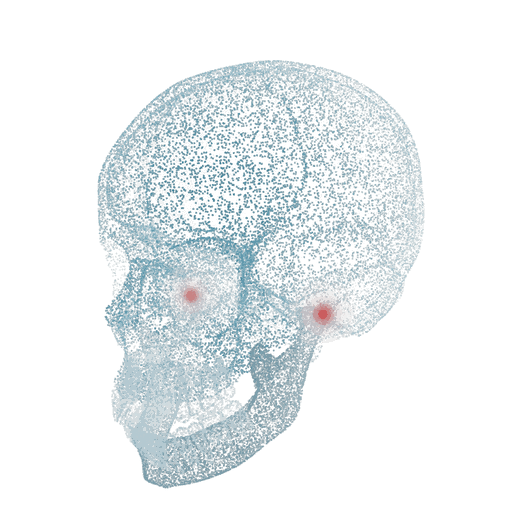
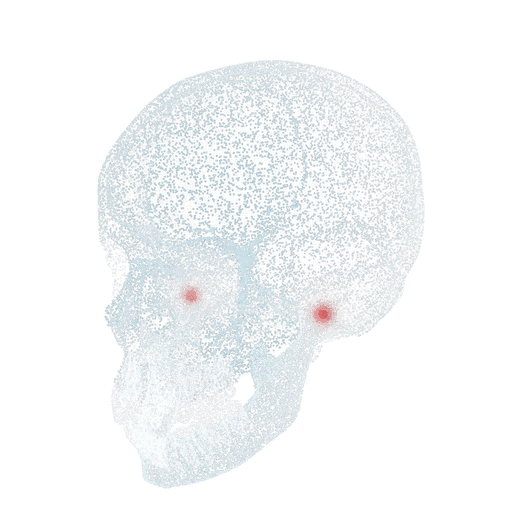
배색 변경: 네이비(머리 띠 짙은 남색, 포인트 청남색)
- 메인 대문과 각 쪽 제목 띠를 짙은 남색 바탕에 흰 글자로
- 3D 두개골 점을 밝은 색으로, 정지 그림 갱신

Changed region(s): [[0.1846, 0.0923, 0.8, 0.9538]]

diff --git a/index.html b/index.html
@@ -842,6 +842,24 @@ section.refs{padding-top:28px;padding-bottom:36px}
 .skull3d:active{cursor:grabbing}
 </style>
 <style id="hero-3d-m">@media (max-width:860px){.hero-art{height:48svh;min-height:330px}}</style>
+<style id="palette-navy">
+:root{--green-deep:#12506B;--green:#1C6E8F;--green-soft:#8FB6C7;--bg2:#EEF2F5;--tint:#EEF2F5;--line:#DCE2E7;--accent:#12506B;--accent-deep:#0D3D52;--accent-text:#0D3D52}
+.hero{background:linear-gradient(160deg,#0B2030 0%,#143B54 100%);color:#fff}
+.hero h1,.hero h1 .c,.hero h1 .w{color:#fff}
+.hero p{color:#C9D6DE}
+.hero .crumb,.hero .crumb a{color:#A9BBC6}
+.hero .crumb a:hover{color:#fff}
+.hero .eyebrow{color:#8FC0D4}
+.hero .eyebrow::before{background:#8FC0D4}
+.hero h1 em{color:#A6D8EA}
+.hero h1 em::after{background:rgba(166,216,234,.22)}
+.hero-word{color:rgba(255,255,255,.07);-webkit-text-stroke:0}
+.glow{opacity:.12 !important}
+.hero-art .arc{stroke:rgba(255,255,255,.5)}
+.sym .ph{background:#EEF2F5}
+.cmp thead th{background:#E9EEF2}
+.cmp tbody th{background:#F6F8FA}
+</style>
 </head>
 <body>
 <div id="wash" aria-hidden="true"></div>
@@ -1283,7 +1301,7 @@ var vs='attribute vec3 p;attribute float g;uniform float ry,rx,jaw,sc,asp,dpr,tm
 +'if(g>3.5){gl_PointSize=.2*sc*hpx*k*(1.+.07*sin(tm*2.2));va=.62+.38*f;}else{gl_PointSize=dpr*(1.15+1.6*f);va=.14+.8*f*f;}}';
 var fs='precision mediump float;varying float va;varying float vg;varying float vt;'
 +'void main(){vec2 d=gl_PointCoord-.5;float r=dot(d,d);if(r>.25)discard;'
-+'vec3 c=vec3(.09,.43,.55);if(vg>.5&&vg<1.5)c=vec3(.06,.31,.41);if(vg>1.5&&vg<3.5)c=vec3(.07,.33,.43);'
++'vec3 c=vec3(.66,.83,.90);if(vg>.5&&vg<1.5)c=vec3(.82,.92,.96);if(vg>1.5&&vg<3.5)c=vec3(.95,.98,1.);'
 +'float a=va;if(vg>1.5&&vg<3.5)a*=.5;if(vg>3.5){float d1=sqrt(r)*2.;c=mix(vec3(.84,.18,.18),vec3(.96,.52,.48),smoothstep(0.,.55,d1));a=va*min(1.,.62*pow(1.-d1,1.35)+.5*smoothstep(.42,0.,d1));}'
 +'gl_FragColor=vec4(c,a);}';
 var pr=gl.createProgram();gl.attachShader(pr,sh(gl.VERTEX_SHADER,vs));gl.attachShader(pr,sh(gl.FRAGMENT_SHADER,fs));gl.linkProgram(pr);

diff --git a/about.html b/about.html
@@ -466,6 +466,24 @@ section.refs{padding-top:28px;padding-bottom:36px}
 .cmp th,.cmp td{border-left:0;border-right:0;border-bottom:1px solid var(--line)}
 @media (max-width:560px){.sym{padding-left:0;padding-right:0}}
 </style>
+<style id="palette-navy">
+:root{--green-deep:#12506B;--green:#1C6E8F;--green-soft:#8FB6C7;--bg2:#EEF2F5;--tint:#EEF2F5;--line:#DCE2E7;--accent:#12506B;--accent-deep:#0D3D52;--accent-text:#0D3D52}
+.hero{background:linear-gradient(160deg,#0B2030 0%,#143B54 100%);color:#fff}
+.hero h1,.hero h1 .c,.hero h1 .w{color:#fff}
+.hero p{color:#C9D6DE}
+.hero .crumb,.hero .crumb a{color:#A9BBC6}
+.hero .crumb a:hover{color:#fff}
+.hero .eyebrow{color:#8FC0D4}
+.hero .eyebrow::before{background:#8FC0D4}
+.hero h1 em{color:#A6D8EA}
+.hero h1 em::after{background:rgba(166,216,234,.22)}
+.hero-word{color:rgba(255,255,255,.07);-webkit-text-stroke:0}
+.glow{opacity:.12 !important}
+.hero-art .arc{stroke:rgba(255,255,255,.5)}
+.sym .ph{background:#EEF2F5}
+.cmp thead th{background:#E9EEF2}
+.cmp tbody th{background:#F6F8FA}
+</style>
 </head>
 <body>
 <div id="pbar" aria-hidden="true"></div>

diff --git a/body.html b/body.html
@@ -413,6 +413,24 @@ section.refs{padding-top:28px;padding-bottom:36px}
 .cmp th,.cmp td{border-left:0;border-right:0;border-bottom:1px solid var(--line)}
 @media (max-width:560px){.sym{padding-left:0;padding-right:0}}
 </style>
+<style id="palette-navy">
+:root{--green-deep:#12506B;--green:#1C6E8F;--green-soft:#8FB6C7;--bg2:#EEF2F5;--tint:#EEF2F5;--line:#DCE2E7;--accent:#12506B;--accent-deep:#0D3D52;--accent-text:#0D3D52}
+.hero{background:linear-gradient(160deg,#0B2030 0%,#143B54 100%);color:#fff}
+.hero h1,.hero h1 .c,.hero h1 .w{color:#fff}
+.hero p{color:#C9D6DE}
+.hero .crumb,.hero .crumb a{color:#A9BBC6}
+.hero .crumb a:hover{color:#fff}
+.hero .eyebrow{color:#8FC0D4}
+.hero .eyebrow::before{background:#8FC0D4}
+.hero h1 em{color:#A6D8EA}
+.hero h1 em::after{background:rgba(166,216,234,.22)}
+.hero-word{color:rgba(255,255,255,.07);-webkit-text-stroke:0}
+.glow{opacity:.12 !important}
+.hero-art .arc{stroke:rgba(255,255,255,.5)}
+.sym .ph{background:#EEF2F5}
+.cmp thead th{background:#E9EEF2}
+.cmp tbody th{background:#F6F8FA}
+</style>
 </head>
 <body>
 <div id="pbar" aria-hidden="true"></div>

diff --git a/sym-chronic.html b/sym-chronic.html
@@ -377,6 +377,24 @@ section.refs{padding-top:28px;padding-bottom:36px}
 .cmp th,.cmp td{border-left:0;border-right:0;border-bottom:1px solid var(--line)}
 @media (max-width:560px){.sym{padding-left:0;padding-right:0}}
 </style>
+<style id="palette-navy">
+:root{--green-deep:#12506B;--green:#1C6E8F;--green-soft:#8FB6C7;--bg2:#EEF2F5;--tint:#EEF2F5;--line:#DCE2E7;--accent:#12506B;--accent-deep:#0D3D52;--accent-text:#0D3D52}
+.hero{background:linear-gradient(160deg,#0B2030 0%,#143B54 100%);color:#fff}
+.hero h1,.hero h1 .c,.hero h1 .w{color:#fff}
+.hero p{color:#C9D6DE}
+.hero .crumb,.hero .crumb a{color:#A9BBC6}
+.hero .crumb a:hover{color:#fff}
+.hero .eyebrow{color:#8FC0D4}
+.hero .eyebrow::before{background:#8FC0D4}
+.hero h1 em{color:#A6D8EA}
+.hero h1 em::after{background:rgba(166,216,234,.22)}
+.hero-word{color:rgba(255,255,255,.07);-webkit-text-stroke:0}
+.glow{opacity:.12 !important}
+.hero-art .arc{stroke:rgba(255,255,255,.5)}
+.sym .ph{background:#EEF2F5}
+.cmp thead th{background:#E9EEF2}
+.cmp tbody th{background:#F6F8FA}
+</style>
 </head>
 <body>
 <div id="pbar" aria-hidden="true"></div>

diff --git a/sym-ear.html b/sym-ear.html
@@ -367,6 +367,24 @@ section.refs{padding-top:28px;padding-bottom:36px}
 .cmp th,.cmp td{border-left:0;border-right:0;border-bottom:1px solid var(--line)}
 @media (max-width:560px){.sym{padding-left:0;padding-right:0}}
 </style>
+<style id="palette-navy">
+:root{--green-deep:#12506B;--green:#1C6E8F;--green-soft:#8FB6C7;--bg2:#EEF2F5;--tint:#EEF2F5;--line:#DCE2E7;--accent:#12506B;--accent-deep:#0D3D52;--accent-text:#0D3D52}
+.hero{background:linear-gradient(160deg,#0B2030 0%,#143B54 100%);color:#fff}
+.hero h1,.hero h1 .c,.hero h1 .w{color:#fff}
+.hero p{color:#C9D6DE}
+.hero .crumb,.hero .crumb a{color:#A9BBC6}
+.hero .crumb a:hover{color:#fff}
+.hero .eyebrow{color:#8FC0D4}
+.hero .eyebrow::before{background:#8FC0D4}
+.hero h1 em{color:#A6D8EA}
+.hero h1 em::after{background:rgba(166,216,234,.22)}
+.hero-word{color:rgba(255,255,255,.07);-webkit-text-stroke:0}
+.glow{opacity:.12 !important}
+.hero-art .arc{stroke:rgba(255,255,255,.5)}
+.sym .ph{background:#EEF2F5}
+.cmp thead th{background:#E9EEF2}
+.cmp tbody th{background:#F6F8FA}
+</style>
 </head>
 <body>
 <div id="pbar" aria-hidden="true"></div>

diff --git a/sym-face.html b/sym-face.html
@@ -377,6 +377,24 @@ section.refs{padding-top:28px;padding-bottom:36px}
 .cmp th,.cmp td{border-left:0;border-right:0;border-bottom:1px solid var(--line)}
 @media (max-width:560px){.sym{padding-left:0;padding-right:0}}
 </style>
+<style id="palette-navy">
+:root{--green-deep:#12506B;--green:#1C6E8F;--green-soft:#8FB6C7;--bg2:#EEF2F5;--tint:#EEF2F5;--line:#DCE2E7;--accent:#12506B;--accent-deep:#0D3D52;--accent-text:#0D3D52}
+.hero{background:linear-gradient(160deg,#0B2030 0%,#143B54 100%);color:#fff}
+.hero h1,.hero h1 .c,.hero h1 .w{color:#fff}
+.hero p{color:#C9D6DE}
+.hero .crumb,.hero .crumb a{color:#A9BBC6}
+.hero .crumb a:hover{color:#fff}
+.hero .eyebrow{color:#8FC0D4}
+.hero .eyebrow::before{background:#8FC0D4}
+.hero h1 em{color:#A6D8EA}
+.hero h1 em::after{background:rgba(166,216,234,.22)}
+.hero-word{color:rgba(255,255,255,.07);-webkit-text-stroke:0}
+.glow{opacity:.12 !important}
+.hero-art .arc{stroke:rgba(255,255,255,.5)}
+.sym .ph{background:#EEF2F5}
+.cmp thead th{background:#E9EEF2}
+.cmp tbody th{background:#F6F8FA}
+</style>
 </head>
 <body>
 <div id="pbar" aria-hidden="true"></div>

diff --git a/sym-grind.html b/sym-grind.html
@@ -377,6 +377,24 @@ section.refs{padding-top:28px;padding-bottom:36px}
 .cmp th,.cmp td{border-left:0;border-right:0;border-bottom:1px solid var(--line)}
 @media (max-width:560px){.sym{padding-left:0;padding-right:0}}
 </style>
+<style id="palette-navy">
+:root{--green-deep:#12506B;--green:#1C6E8F;--green-soft:#8FB6C7;--bg2:#EEF2F5;--tint:#EEF2F5;--line:#DCE2E7;--accent:#12506B;--accent-deep:#0D3D52;--accent-text:#0D3D52}
+.hero{background:linear-gradient(160deg,#0B2030 0%,#143B54 100%);color:#fff}
+.hero h1,.hero h1 .c,.hero h1 .w{color:#fff}
+.hero p{color:#C9D6DE}
+.hero .crumb,.hero .crumb a{color:#A9BBC6}
+.hero .crumb a:hover{color:#fff}
+.hero .eyebrow{color:#8FC0D4}
+.hero .eyebrow::before{background:#8FC0D4}
+.hero h1 em{color:#A6D8EA}
+.hero h1 em::after{background:rgba(166,216,234,.22)}
+.hero-word{color:rgba(255,255,255,.07);-webkit-text-stroke:0}
+.glow{opacity:.12 !important}
+.hero-art .arc{stroke:rgba(255,255,255,.5)}
+.sym .ph{background:#EEF2F5}
+.cmp thead th{background:#E9EEF2}
+.cmp tbody th{background:#F6F8FA}
+</style>
 </head>
 <body>
 <div id="pbar" aria-hidden="true"></div>

diff --git a/sym-head.html b/sym-head.html
@@ -370,6 +370,24 @@ section.refs{padding-top:28px;padding-bottom:36px}
 .cmp th,.cmp td{border-left:0;border-right:0;border-bottom:1px solid var(--line)}
 @media (max-width:560px){.sym{padding-left:0;padding-right:0}}
 </style>
+<style id="palette-navy">
+:root{--green-deep:#12506B;--green:#1C6E8F;--green-soft:#8FB6C7;--bg2:#EEF2F5;--tint:#EEF2F5;--line:#DCE2E7;--accent:#12506B;--accent-deep:#0D3D52;--accent-text:#0D3D52}
+.hero{background:linear-gradient(160deg,#0B2030 0%,#143B54 100%);color:#fff}
+.hero h1,.hero h1 .c,.hero h1 .w{color:#fff}
+.hero p{color:#C9D6DE}
+.hero .crumb,.hero .crumb a{color:#A9BBC6}
+.hero .crumb a:hover{color:#fff}
+.hero .eyebrow{color:#8FC0D4}
+.hero .eyebrow::before{background:#8FC0D4}
+.hero h1 em{color:#A6D8EA}
+.hero h1 em::after{background:rgba(166,216,234,.22)}
+.hero-word{color:rgba(255,255,255,.07);-webkit-text-stroke:0}
+.glow{opacity:.12 !important}
+.hero-art .arc{stroke:rgba(255,255,255,.5)}
+.sym .ph{background:#EEF2F5}
+.cmp thead th{background:#E9EEF2}
+.cmp tbody th{background:#F6F8FA}
+</style>
 </head>
 <body>
 <div id="pbar" aria-hidden="true"></div>

diff --git a/sym-lock.html b/sym-lock.html
@@ -372,6 +372,24 @@ section.refs{padding-top:28px;padding-bottom:36px}
 .cmp th,.cmp td{border-left:0;border-right:0;border-bottom:1px solid var(--line)}
 @media (max-width:560px){.sym{padding-left:0;padding-right:0}}
 </style>
+<style id="palette-navy">
+:root{--green-deep:#12506B;--green:#1C6E8F;--green-soft:#8FB6C7;--bg2:#EEF2F5;--tint:#EEF2F5;--line:#DCE2E7;--accent:#12506B;--accent-deep:#0D3D52;--accent-text:#0D3D52}
+.hero{background:linear-gradient(160deg,#0B2030 0%,#143B54 100%);color:#fff}
+.hero h1,.hero h1 .c,.hero h1 .w{color:#fff}
+.hero p{color:#C9D6DE}
+.hero .crumb,.hero .crumb a{color:#A9BBC6}
+.hero .crumb a:hover{color:#fff}
+.hero .eyebrow{color:#8FC0D4}
+.hero .eyebrow::before{background:#8FC0D4}
+.hero h1 em{color:#A6D8EA}
+.hero h1 em::after{background:rgba(166,216,234,.22)}
+.hero-word{color:rgba(255,255,255,.07);-webkit-text-stroke:0}
+.glow{opacity:.12 !important}
+.hero-art .arc{stroke:rgba(255,255,255,.5)}
+.sym .ph{background:#EEF2F5}
+.cmp thead th{background:#E9EEF2}
+.cmp tbody th{background:#F6F8FA}
+</style>
 </head>
 <body>
 <div id="pbar" aria-hidden="true"></div>

diff --git a/sym-pain.html b/sym-pain.html
@@ -368,6 +368,24 @@ section.refs{padding-top:28px;padding-bottom:36px}
 .cmp th,.cmp td{border-left:0;border-right:0;border-bottom:1px solid var(--line)}
 @media (max-width:560px){.sym{padding-left:0;padding-right:0}}
 </style>
+<style id="palette-navy">
+:root{--green-deep:#12506B;--green:#1C6E8F;--green-soft:#8FB6C7;--bg2:#EEF2F5;--tint:#EEF2F5;--line:#DCE2E7;--accent:#12506B;--accent-deep:#0D3D52;--accent-text:#0D3D52}
+.hero{background:linear-gradient(160deg,#0B2030 0%,#143B54 100%);color:#fff}
+.hero h1,.hero h1 .c,.hero h1 .w{color:#fff}
+.hero p{color:#C9D6DE}
+.hero .crumb,.hero .crumb a{color:#A9BBC6}
+.hero .crumb a:hover{color:#fff}
+.hero .eyebrow{color:#8FC0D4}
+.hero .eyebrow::before{background:#8FC0D4}
+.hero h1 em{color:#A6D8EA}
+.hero h1 em::after{background:rgba(166,216,234,.22)}
+.hero-word{color:rgba(255,255,255,.07);-webkit-text-stroke:0}
+.glow{opacity:.12 !important}
+.hero-art .arc{stroke:rgba(255,255,255,.5)}
+.sym .ph{background:#EEF2F5}
+.cmp thead th{background:#E9EEF2}
+.cmp tbody th{background:#F6F8FA}
+</style>
 </head>
 <body>
 <div id="pbar" aria-hidden="true"></div>

diff --git a/sym-sleep.html b/sym-sleep.html
@@ -377,6 +377,24 @@ section.refs{padding-top:28px;padding-bottom:36px}
 .cmp th,.cmp td{border-left:0;border-right:0;border-bottom:1px solid var(--line)}
 @media (max-width:560px){.sym{padding-left:0;padding-right:0}}
 </style>
+<style id="palette-navy">
+:root{--green-deep:#12506B;--green:#1C6E8F;--green-soft:#8FB6C7;--bg2:#EEF2F5;--tint:#EEF2F5;--line:#DCE2E7;--accent:#12506B;--accent-deep:#0D3D52;--accent-text:#0D3D52}
+.hero{background:linear-gradient(160deg,#0B2030 0%,#143B54 100%);color:#fff}
+.hero h1,.hero h1 .c,.hero h1 .w{color:#fff}
+.hero p{color:#C9D6DE}
+.hero .crumb,.hero .crumb a{color:#A9BBC6}
+.hero .crumb a:hover{color:#fff}
+.hero .eyebrow{color:#8FC0D4}
+.hero .eyebrow::before{background:#8FC0D4}
+.hero h1 em{color:#A6D8EA}
+.hero h1 em::after{background:rgba(166,216,234,.22)}
+.hero-word{color:rgba(255,255,255,.07);-webkit-text-stroke:0}
+.glow{opacity:.12 !important}
+.hero-art .arc{stroke:rgba(255,255,255,.5)}
+.sym .ph{background:#EEF2F5}
+.cmp thead th{background:#E9EEF2}
+.cmp tbody th{background:#F6F8FA}
+</style>
 </head>
 <body>
 <div id="pbar" aria-hidden="true"></div>

diff --git a/tx-finish.html b/tx-finish.html
@@ -437,6 +437,24 @@ section.refs{padding-top:28px;padding-bottom:36px}
 .cmp th,.cmp td{border-left:0;border-right:0;border-bottom:1px solid var(--line)}
 @media (max-width:560px){.sym{padding-left:0;padding-right:0}}
 </style>
+<style id="palette-navy">
+:root{--green-deep:#12506B;--green:#1C6E8F;--green-soft:#8FB6C7;--bg2:#EEF2F5;--tint:#EEF2F5;--line:#DCE2E7;--accent:#12506B;--accent-deep:#0D3D52;--accent-text:#0D3D52}
+.hero{background:linear-gradient(160deg,#0B2030 0%,#143B54 100%);color:#fff}
+.hero h1,.hero h1 .c,.hero h1 .w{color:#fff}
+.hero p{color:#C9D6DE}
+.hero .crumb,.hero .crumb a{color:#A9BBC6}
+.hero .crumb a:hover{color:#fff}
+.hero .eyebrow{color:#8FC0D4}
+.hero .eyebrow::before{background:#8FC0D4}
+.hero h1 em{color:#A6D8EA}
+.hero h1 em::after{background:rgba(166,216,234,.22)}
+.hero-word{color:rgba(255,255,255,.07);-webkit-text-stroke:0}
+.glow{opacity:.12 !important}
+.hero-art .arc{stroke:rgba(255,255,255,.5)}
+.sym .ph{background:#EEF2F5}
+.cmp thead th{background:#E9EEF2}
+.cmp tbody th{background:#F6F8FA}
+</style>
 </head>
 <body>
 <div id="pbar" aria-hidden="true"></div>
